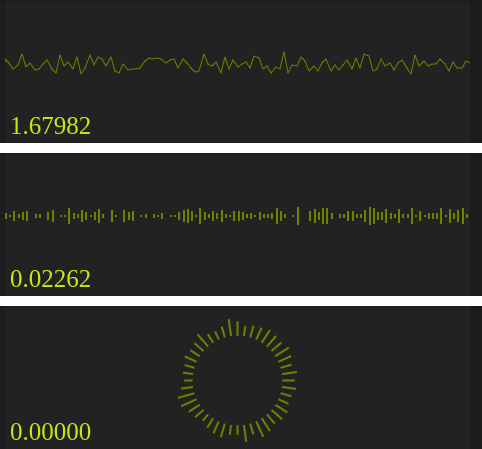
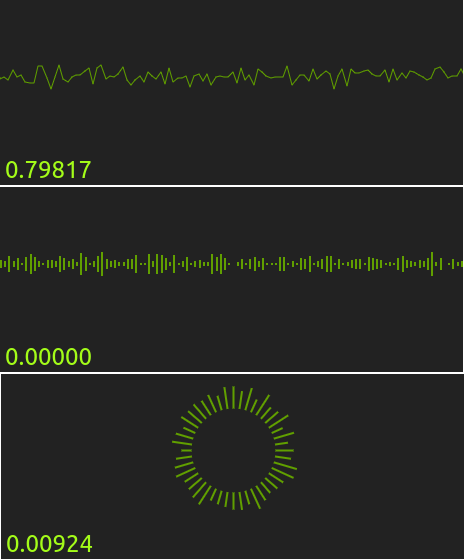
style: Applying new fonts

Changed region(s): [[0.0, 0.0, 1.0, 0.9978], [0.0, 0.9354, 0.2112, 0.9978]]

diff --git a/src_for_wasm/perlin-wave/src/graphics/control.rs b/src_for_wasm/perlin-wave/src/graphics/control.rs
@@ -2,6 +2,7 @@ use core::cell::RefCell;
 use std::any::Any;
 use std::rc::Rc;
 
+use crate::constants::FONT_FAMILY;
 use crate::exit;
 use crate::graphics::Graphics;
 use crate::types::Point;
@@ -56,7 +57,7 @@ impl ControlGraphics {
         let ctx = get_ctx(&canvas)?;
 
         let font_size: u32 = (height * 0.8) as u32;
-        let font_style: String = format!("{}px serif", font_size);
+        let font_style: String = format!("{}px {}", font_size, FONT_FAMILY);
 
         Ok(ControlGraphics {
             ctx: Rc::new(RefCell::new(ctx)),

diff --git a/src_for_wasm/perlin-wave/src/constants.rs b/src_for_wasm/perlin-wave/src/constants.rs
@@ -1,3 +1,4 @@
 pub const FULL_CYCLE: f64 = 20.0;
 pub const SEGMENTS: usize = 110;
 pub const NORMAL_WIDTH: f64 = 550.0;
+pub const FONT_FAMILY: &str = "Work Sans, -apple-system, BlinkMacSystemFont, Segoe UI, Roboto, Oxygen, Ubuntu, Cantarell, Fira Sans, Droid Sans, Helvetica Neue, sans-serif";
